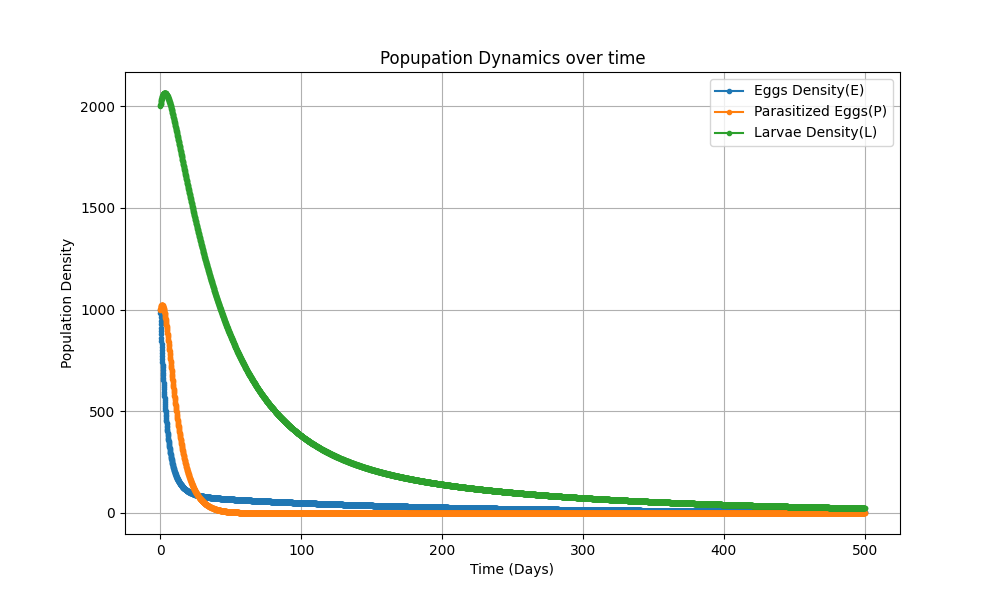
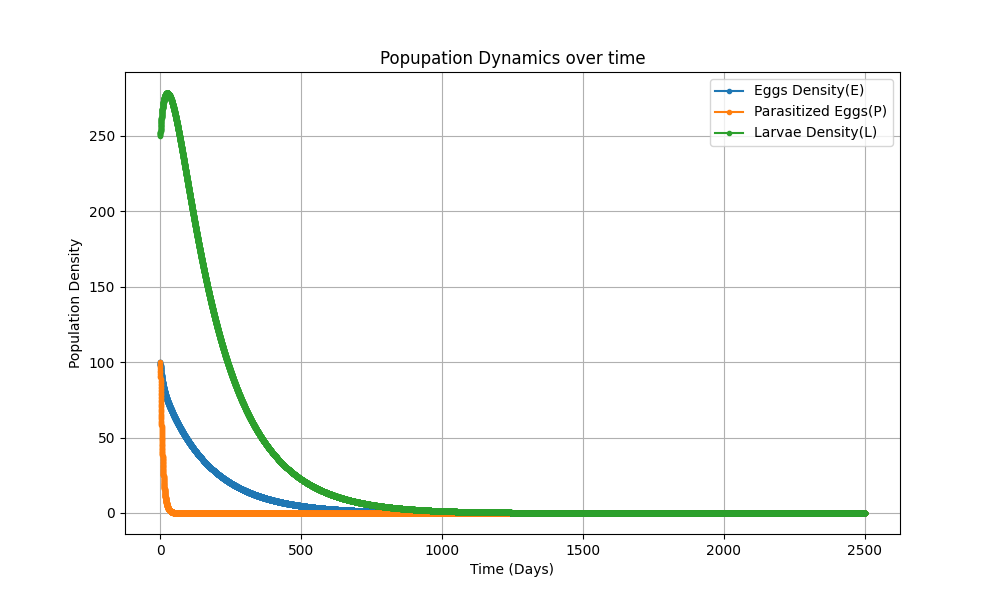
feat: ajustando parametros

diff --git a/src/main/sakthivel/main.py b/src/main/sakthivel/main.py
@@ -29,9 +29,9 @@ def sakthivel(param: Param, days: int, instantsPerDay: int)-> None:
         return [dEdt, dPdt, dLdt]
     
 
-    EggsDensity = 100
+    EggsDensity = 800
     ParasitisedEggs = 100
-    LarvaeDensity = 250
+    LarvaeDensity = 2500
 
     initialValues = [ EggsDensity, ParasitisedEggs, LarvaeDensity]
 
@@ -50,11 +50,11 @@ def sakthivel(param: Param, days: int, instantsPerDay: int)-> None:
     plotGraph(timePoints, params, f'sakthivel-{param.equilibrium.description}')
 
 # parameters = Param(Equilibrium.FIRST)
-# sakthivel(parameters, 500, 10)
+# sakthivel(parameters, 2500, 10)
 
-parameters = Param(Equilibrium.SECOND)
-sakthivel(parameters, 500, 10)
+# parameters = Param(Equilibrium.SECOND)
+# sakthivel(parameters, 2500, 10)
 
-# parameters = Param(Equilibrium.THIRD)
-# sakthivel(parameters, 500, 10)
+parameters = Param(Equilibrium.THIRD)
+sakthivel(parameters, 2500, 10)
 
